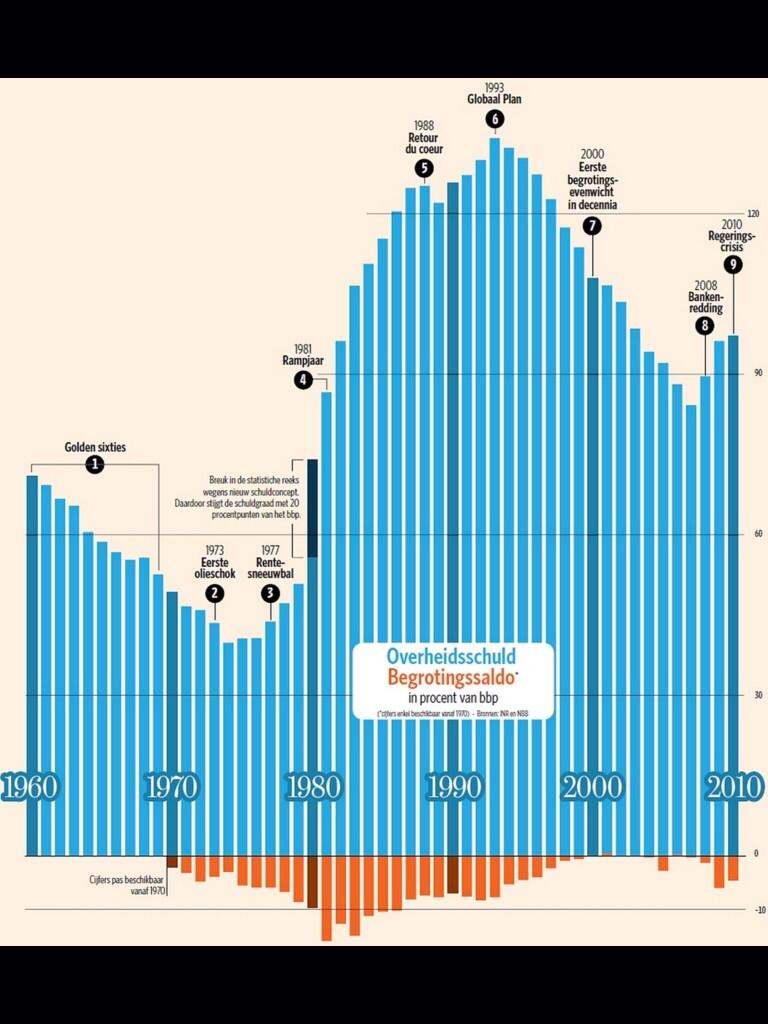
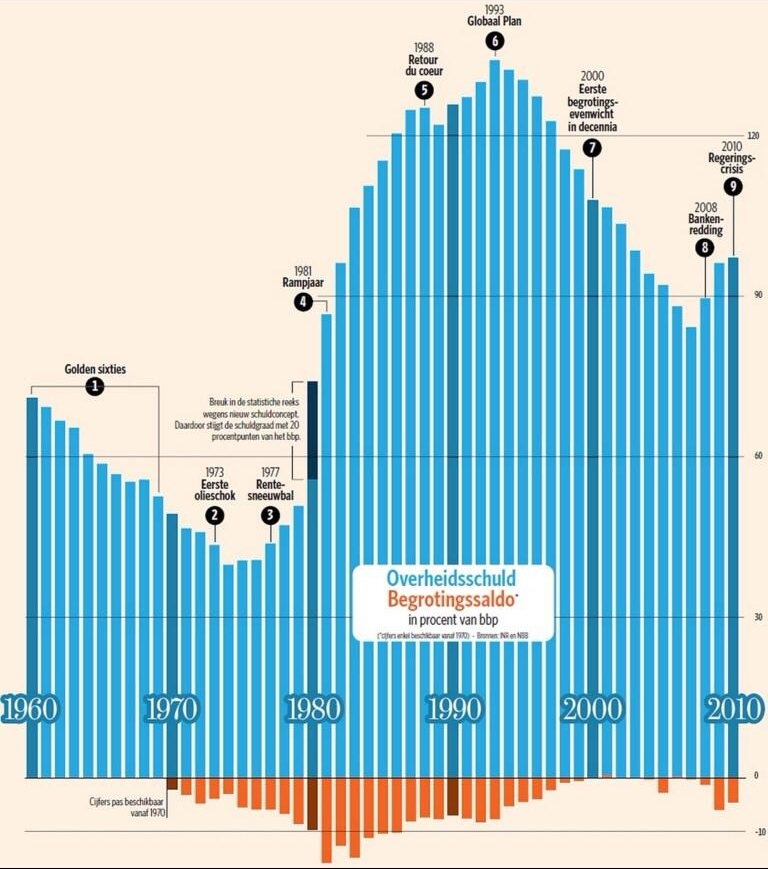
Cropped img\overheidsschuld_begrotingssaldo.jpg so black borders are removed. Changed body padding to percentages instead of em.

diff --git a/index.html b/index.html
@@ -10,15 +10,15 @@
 			body{
 				font-family: sans-serif;
 				font-size: 14px;
-				padding-left: 10em;
-				padding-right: 10em;
+				padding-left: 10%;
+				padding-right: 10%;
 			}
 		</style>
 	</head>
 	<body>
 		<h1>Begrotingssaldo</h1>
 		<div class="intro">
-			Op de avond van zaterdag 15 februari 2014 zag ik <a href="https://twitter.com/Gelerobbie/status/434745834996248576" target="_blank">een tweet</a> passeren over de evolutie van de staatsschuld van België. Er werd een allusie gemaakt op een uitspraak van minister-president van Vlaanderen Kris Peeters (CD&amp;V) dat CD&amp;V "bekwamer" is dan N-VA.
+			Op de avond van zaterdag 15 februari 2014 zag ik <a href="https://twitter.com/Gelerobbie/status/434745834996248576" target="_blank">een tweet</a> passeren over de evolutie van de staatsschuld van België. Er werd een allusie gemaakt op een uitspraak van minister-president van Vlaanderen Kris Peeters (CD&amp;V) dat CD&amp;V "bekwamer" is dan N-VA.<br/>
 			<img src="img/overheidsschuld_begrotingssaldo.jpg" alt="Overheidsschuld &amp; begrotingssaldo in procent van het bbp"/>
 		</div>
 	</body>
